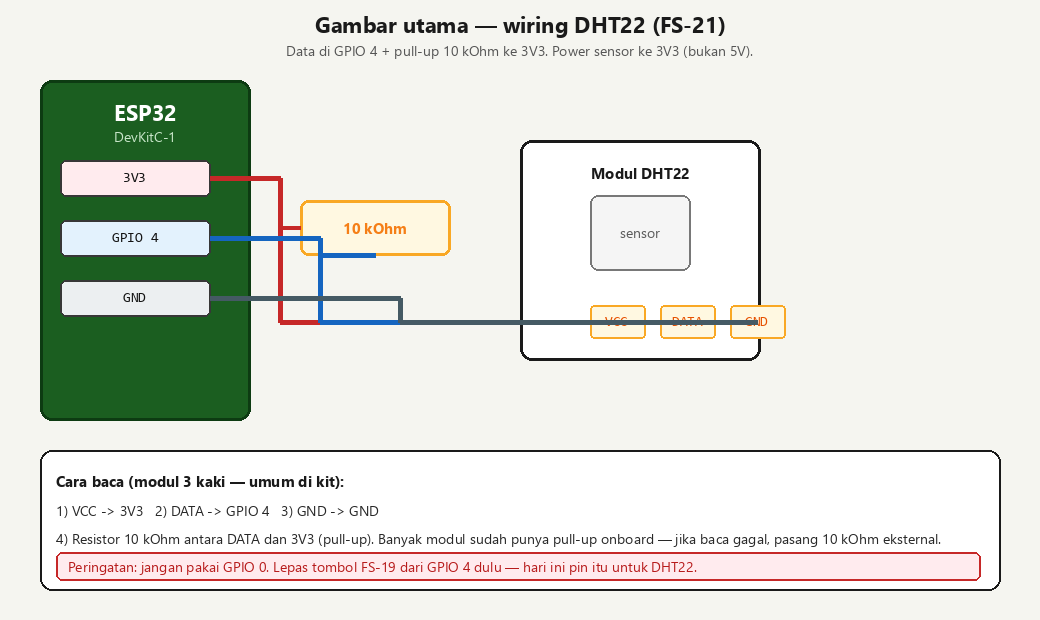
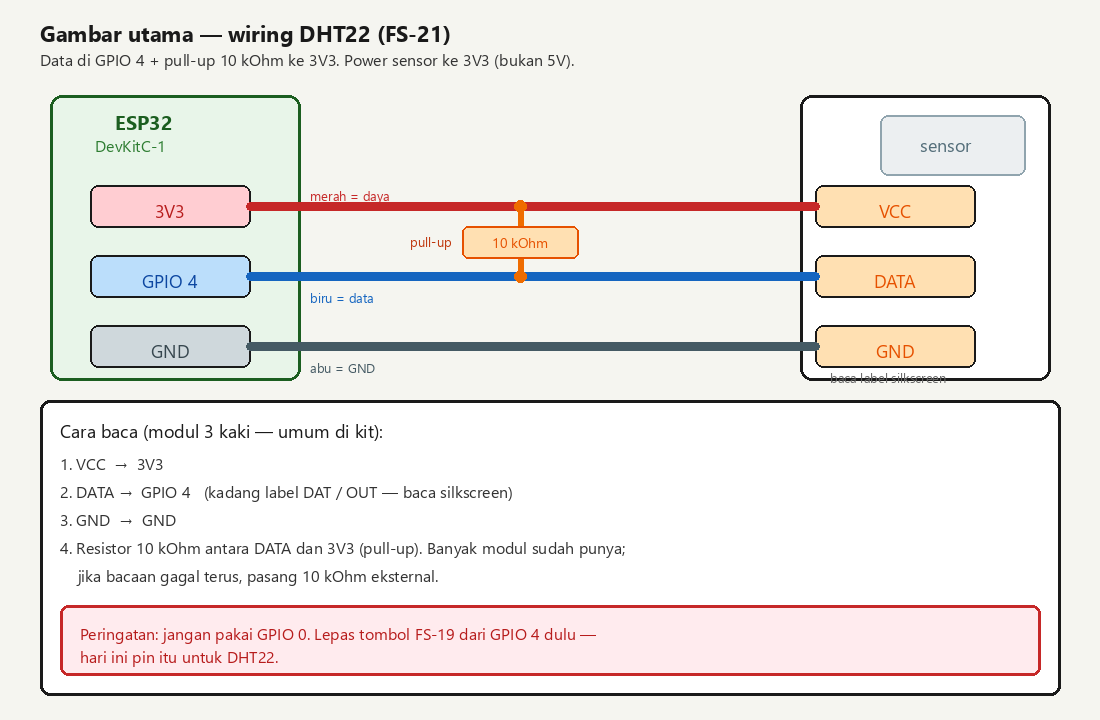
fix(fsiot): #91 rapikan diagram wiring DHT22 (tanpa kabel bentrok)
Gambar utama digambar ulang: 3 jalur sejajar + pull-up jelas; caption gelap/terang dibaca di dark mode.

Changed region(s): [[0.0308, 0.1226, 0.9846, 0.9806], [0.0308, 0.0306, 0.7385, 0.0919]]

diff --git a/database/seeders/Article91Seeder.php b/database/seeders/Article91Seeder.php
@@ -177,9 +177,9 @@ HTML;
     private function mainWiringFigureId(): string
     {
         return <<<'HTML'
-<figure style="margin:1.5rem 0;max-width:100%">
-  <img src="/images/fsiot/fs21-dht22-wiring.png" width="1040" height="620" alt="Gambar utama — wiring DHT22 ke GPIO 4 dengan pull-up 10 kOhm" loading="eager" style="width:100%;height:auto;max-height:520px;object-fit:contain;border:2.5px solid #1a1a1a;border-radius:8px;background:#F5F5F0;padding:0.35rem">
-  <figcaption style="font-size:0.85rem;margin-top:0.5rem;color:#4A5568;">
+<figure style="margin:1.5rem 0;max-width:100%;background:#F5F5F0;border:2.5px solid #1a1a1a;border-radius:8px;padding:0.75rem 0.75rem 0.35rem">
+  <img src="/images/fsiot/fs21-dht22-wiring.png" width="1100" height="720" alt="Gambar utama — wiring DHT22 ke GPIO 4 dengan pull-up 10 kOhm" loading="eager" style="width:100%;height:auto;max-height:580px;object-fit:contain;border-radius:6px;background:#F5F5F0">
+  <figcaption style="font-size:0.85rem;margin-top:0.5rem;color:#1a1a1a;">
     <strong>Gambar utama — wiring DHT22.</strong> VCC → <strong>3V3</strong> · DATA → <strong>GPIO 4</strong> · GND → <strong>GND</strong> · resistor <strong>10 kΩ</strong> antara DATA dan 3V3. Cocokkan label silkscreen di board kamu.
     <br>Sumber gambar: diagram berlabel buatan Koding Indonesia (FS-21). Panduan koneksi: <a href="https://learn.adafruit.com/dht/connecting-to-a-dhtxx-sensor" rel="noopener noreferrer" target="_blank">Adafruit — Connecting to a DHTxx sensor</a>.
   </figcaption>
@@ -190,9 +190,9 @@ HTML;
     private function mainWiringFigureEn(): string
     {
         return <<<'HTML'
-<figure style="margin:1.5rem 0;max-width:100%">
-  <img src="/images/fsiot/fs21-dht22-wiring.png" width="1040" height="620" alt="Main figure — DHT22 wiring to GPIO 4 with 10 kOhm pull-up" loading="eager" style="width:100%;height:auto;max-height:520px;object-fit:contain;border:2.5px solid #1a1a1a;border-radius:8px;background:#F5F5F0;padding:0.35rem">
-  <figcaption style="font-size:0.85rem;margin-top:0.5rem;color:#4A5568;">
+<figure style="margin:1.5rem 0;max-width:100%;background:#F5F5F0;border:2.5px solid #1a1a1a;border-radius:8px;padding:0.75rem 0.75rem 0.35rem">
+  <img src="/images/fsiot/fs21-dht22-wiring.png" width="1100" height="720" alt="Main figure — DHT22 wiring to GPIO 4 with 10 kOhm pull-up" loading="eager" style="width:100%;height:auto;max-height:580px;object-fit:contain;border-radius:6px;background:#F5F5F0">
+  <figcaption style="font-size:0.85rem;margin-top:0.5rem;color:#1a1a1a;">
     <strong>Main figure — DHT22 wiring.</strong> VCC → <strong>3V3</strong> · DATA → <strong>GPIO 4</strong> · GND → <strong>GND</strong> · <strong>10 kΩ</strong> between DATA and 3V3. Match silkscreen labels on your board.
     <br>Image source: labeled diagram by Koding Indonesia (FS-21). Connection guide: <a href="https://learn.adafruit.com/dht/connecting-to-a-dhtxx-sensor" rel="noopener noreferrer" target="_blank">Adafruit — Connecting to a DHTxx sensor</a>.
   </figcaption>
